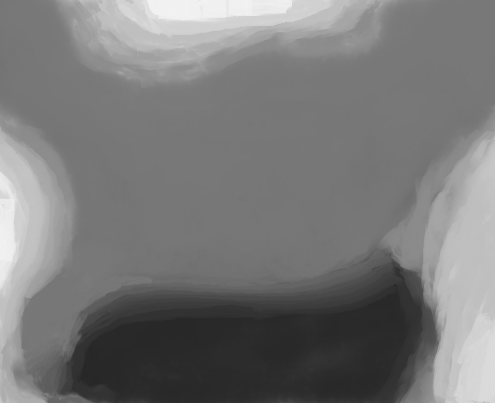
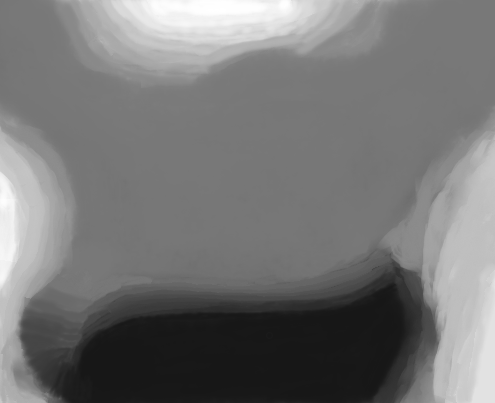
Teksturer fungerer, directional light er med

diff --git a/js/main.js b/js/main.js
@@ -26,9 +26,10 @@ async function main() {
 
     // fog
     const near = 1;
-    const far = 6000;
+    const far = 5000;
     const color = 0xaaaaaa; // adjust color as needed
     scene.fog = new THREE.Fog(color, near, far);
+
 
     const axesHelper = new AxesHelper(15);
     scene.add(axesHelper);
@@ -186,30 +187,34 @@ async function main() {
     const snowyRockTexture = new TextureLoader().load('resources/textures/snowy_rock_01.png');
     snowyRockTexture.wrapS = RepeatWrapping;
     snowyRockTexture.wrapT = RepeatWrapping;
-    snowyRockTexture.repeat.set(1500 / width, 1500 / width);
+    snowyRockTexture.repeat.set(3000 / width, 3000 / width);
 
     const grassTexture = new TextureLoader().load('resources/textures/grass_02.png');
     grassTexture.wrapS = RepeatWrapping;
     grassTexture.wrapT = RepeatWrapping;
-    grassTexture.repeat.set(5000 / width, 5000 / width);
+    grassTexture.repeat.set(3000 / width, 3000 / width);
 
     const snowTexture = new TextureLoader().load('resources/textures/snow-covered-land.jpg');
     snowTexture.wrapS = RepeatWrapping;
     snowTexture.wrapT = RepeatWrapping;
-    snowTexture.repeat.set(1000 / width, 1000 / width);
+    snowTexture.repeat.set(12000 / width, 12000 / width);
 
-    const rockTexture = new TextureLoader().load('resources/textures/rock_01.jpg');
+    const waterTexture = new TextureLoader().load('resources/textures/water.png');
     snowTexture.wrapS = RepeatWrapping;
     snowTexture.wrapT = RepeatWrapping;
-    snowTexture.repeat.set(1000 / width, 1000 / width);
+    snowTexture.repeat.set(5000 / width, 5000 / width);
 
-    const splatMap = new TextureLoader().load('resources/images/splatmap_01.png');
+
+    const splatMap = new TextureLoader().load('resources/images/splatmapI.png');
+    const splatMap2 = new TextureLoader().load('resources/images/splatmapV.png');
+    const splatMap3 = new TextureLoader().load('resources/images/splatmapVI.png');
+    const splatMap4 = new TextureLoader().load('resources/images/splatmapVII.png');
+
 
     const terrainMaterial = new TextureSplattingMaterial({
-        color: 0xffffff,
         shininess: 0,
-        textures: [snowyRockTexture, grassTexture, snowTexture, rockTexture],
-        splatMaps: [splatMap]
+        textures: [snowyRockTexture, snowTexture, waterTexture, grassTexture],
+        splatMaps: [splatMap, splatMap2, splatMap3, splatMap4]
     });
 
     const terrain = new Mesh(terrainGeometry, terrainMaterial);
@@ -230,15 +235,15 @@ async function main() {
         'resources/models/kenney_nature_kit/tree_thin.glb',
         // called when resource is loaded
         (object) => {
-            for (let x = -300; x < 300; x += Math.random() * 10 + 80) {
-                for (let z = -300; z < 300; z += Math.random() * 10 + 80) {
+            for (let x = -300; x < 300; x += Math.random() * 50 + 80) {
+                for (let z = -300; z < 300; z += Math.random() * 50 + 80) {
 
                     const px = x + 1 + (6 * Math.random()) - 3;
                     const pz = z + 1 + (6 * Math.random()) - 3;
 
                     const height = terrainGeometry.getHeightAt(px, pz);
 
-                    if (height < 140) {
+                    if (height < 300) {
                         const tree = object.scene.children[0].clone();
 
                         tree.traverse((child) => {
@@ -250,7 +255,7 @@ async function main() {
 
                         tree.position.x = px;
                         tree.position.y = height - 0.01;
-                        tree.position.z = pz + 500;
+                        tree.position.z = pz + 700;
 
                         tree.rotation.y = Math.random() * (2 * Math.PI);
 
@@ -269,6 +274,7 @@ async function main() {
             console.error('Error loading model.', error);
         }
     );
+
 
     // Create a sun mesh
     const sunGeometry = new THREE.SphereGeometry(100, 132, 132, Math.PI);
@@ -304,25 +310,43 @@ async function main() {
     celestialGroup.add(sun);
     celestialGroup.add(moon);
 
+
+
     const distance = 3000;
     const sunSpeed = 0.065;
     const moonSpeed = 0.065;
 
+    // Create a directional light for the moon with a specific color and intensity.
+    const moonDirectionalLight = new THREE.DirectionalLight(0x375a7f, 0.5); // Set the intensity to 0.5 (50% brightness)
+
+    moonDirectionalLight.position.set(0, 0, 0); // Adjust the position as needed
+    scene.add(moonDirectionalLight);
+
     const clock = new THREE.Clock();
     function animateCelestials() {
         const elapsedTime = clock.getElapsedTime();
+
         const sunX = distance * Math.cos(elapsedTime * sunSpeed);
         const sunY = distance * Math.sin(elapsedTime * sunSpeed);
+
         const moonX = distance * Math.cos(Math.PI + elapsedTime * moonSpeed);
         const moonY = distance * Math.sin(Math.PI + elapsedTime * moonSpeed);
 
         sun.position.set(sunX, sunY, 0);
         moon.position.set(moonX, moonY, 0);
 
+        // Update the position of a directional light to simulate the sun's position.
+        directionalLight.position.copy(sun.position);
+
+        // Set the position of the point light (moonlight) to match the moon's position.
+        moonDirectionalLight.position.copy(moon.position);
+
         requestAnimationFrame(animateCelestials);
     }
 
     animateCelestials();
+
+
 
     /**
      * Set up camera controller:
